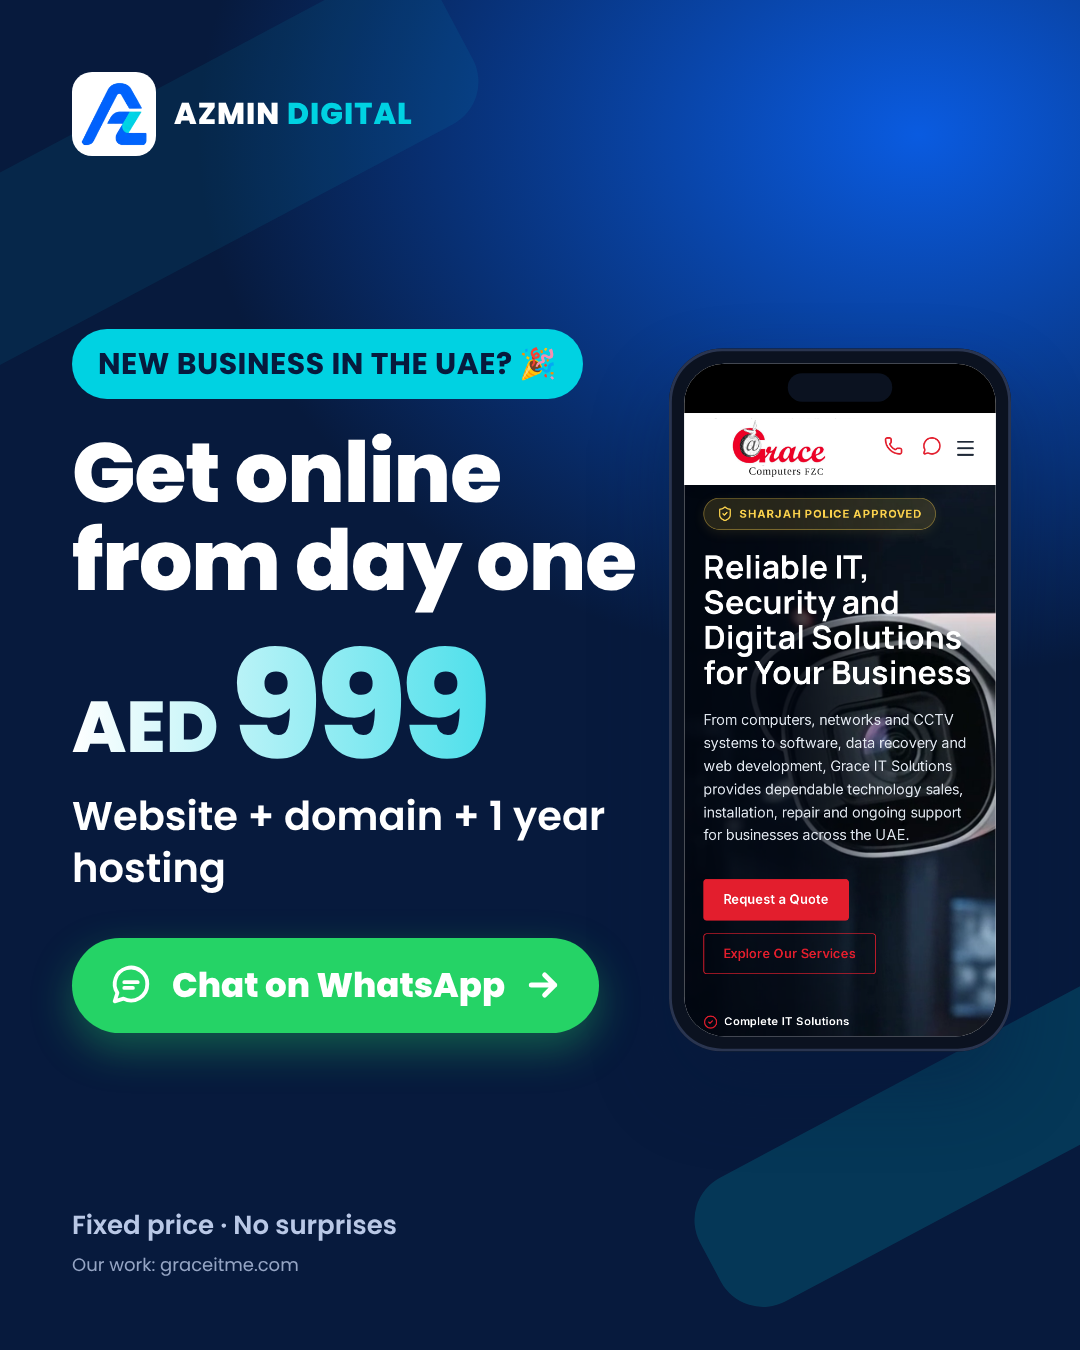
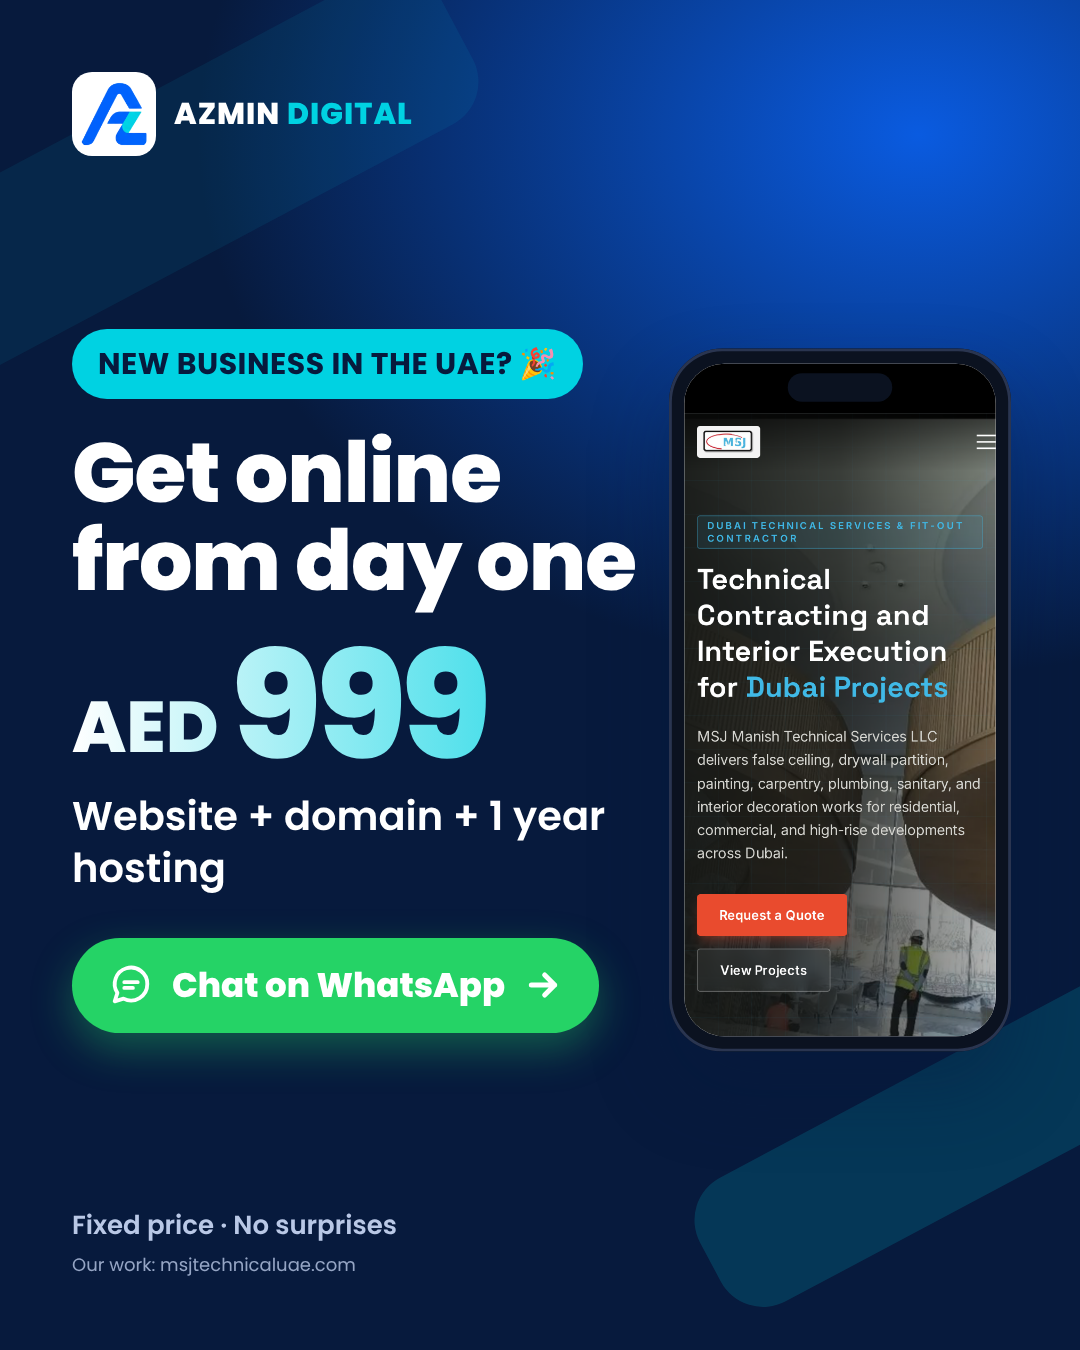
Use only MSJ Technical as portfolio site in creatives
Per Jabir, remove Grace IT from the portfolio list, screenshots and the
new-business creatives; all creatives now show msjtechnicaluae.com.

Claude-Session: https://claude.ai/code/session_01BGEC4PAKqVt3sqxxJW15Vo

Changed region(s): [[0.6111, 0.28, 0.9472, 0.7778], [0.1528, 0.9333, 0.3056, 0.9644]]

diff --git a/marketing/portfolio.md b/marketing/portfolio.md
@@ -5,6 +5,5 @@ Used in WhatsApp replies (PLAYBOOK §6 step 3) and, with screenshots, in future 
 | Client | Link | Industry | Screenshots |
 | --- | --- | --- | --- |
 | MSJ Technical | https://www.msjtechnicaluae.com/ | Technical services | auto (portfolio-screenshots Action) |
-| Grace IT | https://www.graceitme.com/ | IT services | auto (portfolio-screenshots Action) |
 
 Rule: only real work goes here. Never show a sample design as client work, and never invent testimonials.
